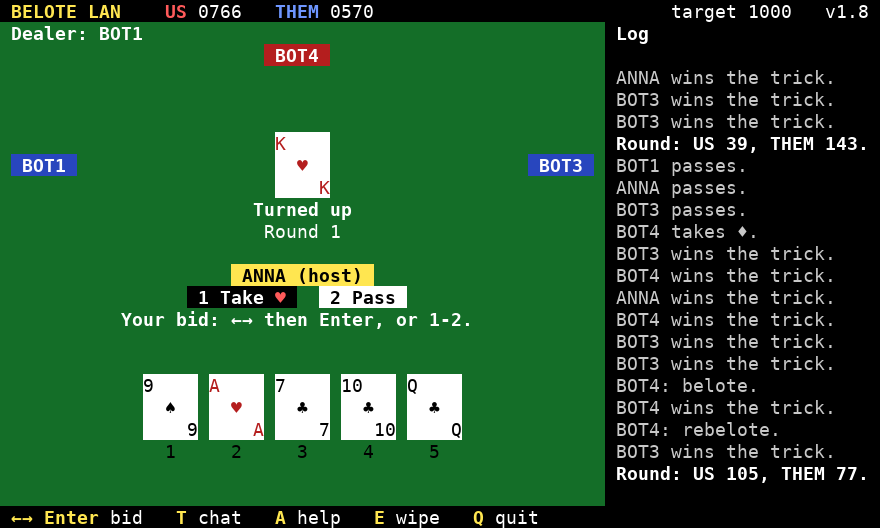
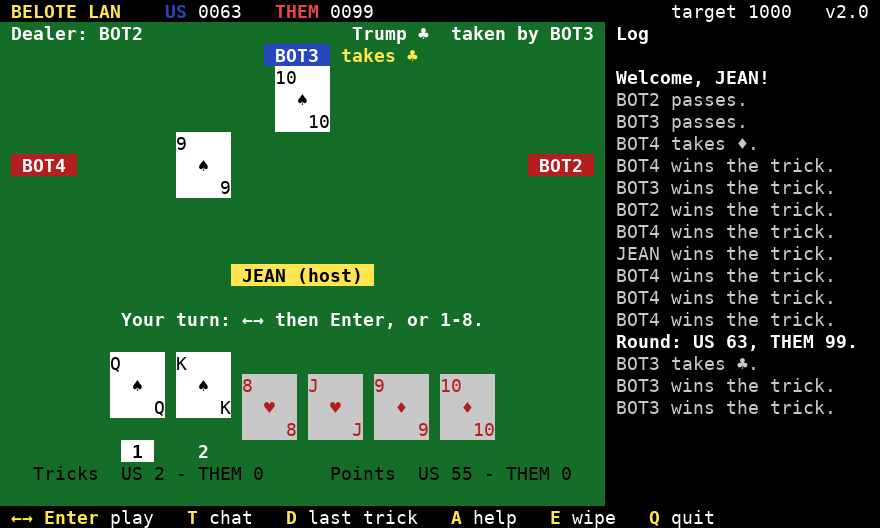
Captures du client PC en v2.0, par le nouvel outil tools/capture_pc.py
Le client joue en mémoire contre une table du serveur ; sa grille est
dessinée en PNG (Pillow), sans terminal ni pyte.

diff --git a/tools/capture_pc.py b/tools/capture_pc.py
@@ -1,0 +1,81 @@
+#!/usr/bin/env python3
+"""Capture du client PC : python3 tools/capture_pc.py LANGUE SORTIE.png (fr, en, de, es).
+
+Le client (pc/belote_lan.py) joue une partie contre une table du serveur en mémoire,
+avec les bots, jusqu'au milieu de la deuxième manche à son tour ; sa grille de
+caractères et de styles est alors dessinée en PNG (cases de 11 x 22, DejaVu Sans
+Mono), comme docs/pc.png et docs/pc-en.png. Demande Pillow.
+"""
+import asyncio, importlib.util, random, sys
+from pathlib import Path
+from types import SimpleNamespace
+from PIL import Image, ImageDraw, ImageFont
+
+RACINE = Path(__file__).resolve().parents[1]
+sys.path.insert(0, str(RACINE / "server"))
+from belote.table import Table
+from belote.bots import choisir_carte, choisir_enchere
+
+spec = importlib.util.spec_from_file_location("belote_lan", RACINE / "pc" / "belote_lan.py")
+pc = importlib.util.module_from_spec(spec); spec.loader.exec_module(pc)
+
+LANGUE, SORTIE = sys.argv[1], sys.argv[2]
+FG = {30: (0, 0, 0), 31: (180, 30, 30), 37: (200, 200, 200), 90: (66, 66, 66), 91: (230, 70, 70),
+      93: (255, 230, 80), 94: (40, 70, 190), 96: (90, 210, 230), 97: (255, 255, 255)}
+BG = {40: (0, 0, 0), 41: (180, 30, 30), 42: (20, 110, 40), 44: (40, 70, 190), 47: (200, 200, 200),
+      103: (255, 230, 80), 107: (255, 255, 255)}
+CW, CH = 11, 22
+POL = ImageFont.truetype("/usr/share/fonts/truetype/dejavu/DejaVuSansMono.ttf", 18)
+POL_G = ImageFont.truetype("/usr/share/fonts/truetype/dejavu/DejaVuSansMono-Bold.ttf", 18)
+
+
+def rendre(e):
+    im = Image.new("RGB", (pc.LARGEUR * CW, pc.HAUTEUR * CH))
+    d = ImageDraw.Draw(im)
+    for y in range(pc.HAUTEUR):
+        for x in range(pc.LARGEUR):
+            codes = [int(c) for c in e.sty[y][x].split(";") if c]
+            fg = next((FG[c] for c in codes if c in FG), (255, 255, 255))
+            bg = next((BG[c] for c in codes if c in BG), (0, 0, 0))
+            d.rectangle([x * CW, y * CH, x * CW + CW - 1, y * CH + CH - 1], fill=bg)
+            ch = e.car[y][x]
+            if ch != " ":
+                d.text((x * CW, y * CH + 1), ch, font=POL_G if 1 in codes else POL, fill=fg)
+    im.save(SORTIE)
+
+
+async def principal():
+    table = Table(rng=random.Random(11), delai_bot=0.0, delai_manche=0.0)
+    app = pc.App(SimpleNamespace(ascii=False, langue=LANGUE, serveur="x", nom="JEAN", auto=False))
+    app.partie = pc.Partie()
+
+    class Pont:                     # le « réseau » : lignes du serveur vers l'App
+        adresse = None
+        def envoyer(self, l): app.ligne(l)
+        def fermer(self): pass
+    pont = Pont()
+
+    class Reseau:                   # ce que l'App envoie va à la table
+        def envoyer(self, l): table.recevoir(pont, l)
+        def fermer(self): pass
+    app.reseau = Reseau()
+    app.reseau.envoyer("JOIN JEAN")
+    app.reseau.envoyer("LANCER")
+    p = app.partie
+    while True:
+        await asyncio.sleep(0)
+        d = table.donne
+        if table.etat == "EN COURS" and d.joueur == p.moi:
+            if d.phase.name == "ENCHERES":
+                c = choisir_enchere(d.mains[p.moi], d.tour_encheres, d.retournee)
+                app.reseau.envoyer("PASSE" if c is None else f"ENCH {c}")
+                continue
+            # Capture : deuxième manche, plusieurs plis joués, deux cartes au pli.
+            if sum(table.scores) > 0 and len(d.pli) == 2 and 2 <= d.nb_plis <= 4:
+                break
+            app.reseau.envoyer(f"COUP {choisir_carte(d.mains[p.moi], d.pli, d.atout, p.moi, d.jouees, d.preneur)}")
+    app.sel = 0
+    app.dessiner_jeu()
+    rendre(app.ecran)
+
+asyncio.run(principal())

diff --git a/SPEC.fr.md b/SPEC.fr.md
@@ -707,3 +707,4 @@ Ces décisions priment sur les formulations contradictoires ou plus anciennes.
 | 41 | Bots renforcés, sur la branche bots. Outil tools/duel_bots.py : les bots actuels contre ceux d’une version git (main par défaut), chaque donne jouée deux fois, équipes échangées, pour ôter la chance des cartes (4 000 donnes à la seconde). Enchères : choisir_enchere reçoit la carte retournée (plus seulement sa couleur) et estime la main pour chaque atout (valet 20, 9 14, as 11..., as hors atout 10, belote 10) ; prise à partir de 35 (essayé de 20 à 50 : 50 perdait, 35 le meilleur), +1,8 % de points. Jeu : charger le partenaire en dernier (+1,3 %), puis en troisième quand sa carte est imbattable dans sa couleur, même au risque d’une coupe (+0,8 %) ; le preneur tire son atout maître, ou son plus petit avec trois atouts (+0,2 % sur 200 000 donnes ; l’atout maître seul ne gagnait rien). Résultat : 53,9 % des points contre les bots de la v1.8 (+13 points par donne, 200 000 donnes). Entre quatre bots, 18 % de donnes redistribuées (les anciens prenaient presque toujours). choisir_carte reçoit aussi le preneur. Tests des bots refaits (8). | Branche bots (15 novembre 2026), serveur seulement. |
 | 42 | Mémoire du C64 : il restait 45 octets. L’image titre (4,4 Ko) ne servait qu’au démarrage mais occupait la mémoire en permanence : elle passe, avec son décompresseur, dans le segment ONCE de cc65 ; un constructeur assembleur (.constructor dans c64/titre_dec.s) éteint l’écran, règle la banque VIC, la bordure brune et le fond vert, et décompresse l’image au chargement, avant que crt0 remette les variables à zéro ; ensuite cette place sert aux variables. titre() est appelé avant ecran_init() (qui écrase la matrice de couleurs), et ecran_init() rallume l’écran. Écran titre, table et liste des salons identiques au pixel près dans VICE. Marges : 1,7 Ko pour le code (fin du segment ONCE sous $C000), 4,7 Ko pour les variables. Essayé aussi : -Cl (variables locales statiques, réinitialisées à chaque appel), seulement +211 octets, non retenu. tools/titre.py génère l’image dans ONCE. | Branche bots (15 novembre 2026). |
 | 43 | Version 2.0, à diffuser : regroupe les entrées 39 à 42 (failles du serveur, 9 salons, bots renforcés, mémoire du C64). Client PC : l’Édition rapide de la console Windows est coupée pour la fenêtre du jeu (un clic y figeait l’affichage, comme pour GRAF). Démos compilées avec le numéro de version (le bandeau affichait « V? »). Captures refaites dans VICE, en français et en anglais : table (tchat sur vert uni), enchères, et la liste des salons, ajoutée aux README avec la façon de choisir son salon. | Client C64, client PC et serveur v2.0 (15 novembre 2026). Release GitHub v2.0 ; serveur public mis à jour par Stéphan, vérifié sans prendre de place : SALONS répond SALONS 9 et la liste, JOIN ZZ 0 répond ERR SALON. |
+| 44 | Rangements après la v2.0 : captures du client PC refaites (« v2.0 » dans le bandeau) par un nouvel outil, tools/capture_pc.py, qui fait jouer le client en mémoire contre une table du serveur et dessine sa grille de caractères en PNG, sans terminal ni pyte ; branches de travail (failles-serveur, multi-salon, bots), fusionnées dans main, supprimées. | Dépôt seulement (15 novembre 2026). |

diff --git a/SPEC.md b/SPEC.md
@@ -709,3 +709,4 @@ These decisions override contradictory or older wording.
 | 41 | Stronger bots, on the bots branch. Tool tools/duel_bots.py: the current bots against those of a git version (main by default), each deal played twice, teams swapped, to remove the luck of the cards (4,000 deals a second). Bidding: choisir_enchere gets the turned-up card (not just its suit) and values the hand for each trump (jack 20, 9 14, ace 11..., ace outside trumps 10, belote 10); takes from 35 (tried from 20 to 50: 50 lost, 35 the best), +1.8% of points. Play: load the partner's trick when last (+1.3%), then third when the partner's card cannot be beaten in its suit, even at the risk of a ruff (+0.8%); the taker draws with its master trump, or its smallest with three trumps (+0.2% over 200,000 deals; the master trump alone gained nothing). Result: 53.9% of the points against the v1.8 bots (+13 points per deal, 200,000 deals). Among four bots, 18% of deals redealt (the old ones almost always took). choisir_carte also gets the taker. Bot tests rewritten (8). | bots branch (15 November 2026), server only. |
 | 42 | C64 memory: 45 bytes were left. The title image (4.4 KB) was only used at startup but took memory for good: it moves, with its decompressor, into cc65's ONCE segment; an assembler constructor (.constructor in c64/titre_dec.s) turns the screen off, sets the VIC bank, the brown border and green background, and decompresses the image at load time, before crt0 clears the variables; afterwards that space is used by the variables. titre() is called before ecran_init() (which overwrites the colour matrix), and ecran_init() turns the screen back on. Title screen, table and room list identical to the pixel in VICE. Margins: 1.7 KB for code (end of the ONCE segment below $C000), 4.7 KB for variables. Also tried: -Cl (static locals, re-initialised at each call), only +211 bytes, not kept. tools/titre.py generates the image into ONCE. | bots branch (15 November 2026). |
 | 43 | Version 2.0, to be spread: groups entries 39 to 42 (server flaws, 9 rooms, stronger bots, C64 memory). PC client: the Windows console's QuickEdit is turned off for the game window (a click froze the output, as for GRAF). Demos built with the version number (the top bar showed "V?"). Screenshots retaken in VICE, in French and English: table (chat on plain green), bidding, and the room list, added to the READMEs with how to choose a room. | C64 client, PC client and server v2.0 (15 November 2026). GitHub release v2.0; public server updated by Stéphan, checked without taking a seat: SALONS answers SALONS 9 and the list, JOIN ZZ 0 answers ERR SALON. |
+| 44 | Tidying after v2.0: PC client screenshots retaken ("v2.0" in the top bar) by a new tool, tools/capture_pc.py, which has the client play in memory against a server table and draws its character grid as a PNG, with no terminal or pyte; work branches (failles-serveur, multi-salon, bots), merged into main, deleted. | Repository only (15 November 2026). |

diff --git a/CLAUDE.md b/CLAUDE.md
@@ -70,8 +70,8 @@ francophones, anglais sous les noms principaux (README.md, SPEC.md, protocol.md,
 - Pile C : VICE avec `-raminitstartvalue 85 -raminitvalueinvert 0 -raminitpatterninvert 0
   -raminitrandomchance 0 -remotemonitor`, puis `m be00 bfff` par nc sur le port 6510 : la plus basse
   adresse différente de $55 donne la profondeur (sans couper le bruit aléatoire, on croit la pile pleine)
-- Client PC : captures en lançant pc/belote_lan.py dans un pseudo-terminal 80x24 rendu par pyte
-  et Pillow (venv à part, pas dans le dépôt) ; docs/pc.png (FR) et docs/pc-en.png (EN)
+- Client PC : `python3 tools/capture_pc.py fr docs/pc.png` (et `en docs/pc-en.png`) : le client joue en
+  mémoire contre le serveur et ses bots, sa grille est dessinée en PNG (Pillow, sans terminal ni pyte)
 
 ## Règles
 - Réseau côté C64 via l'Ultimate Command Interface ($DF1C-$DF1F), cible réseau.
